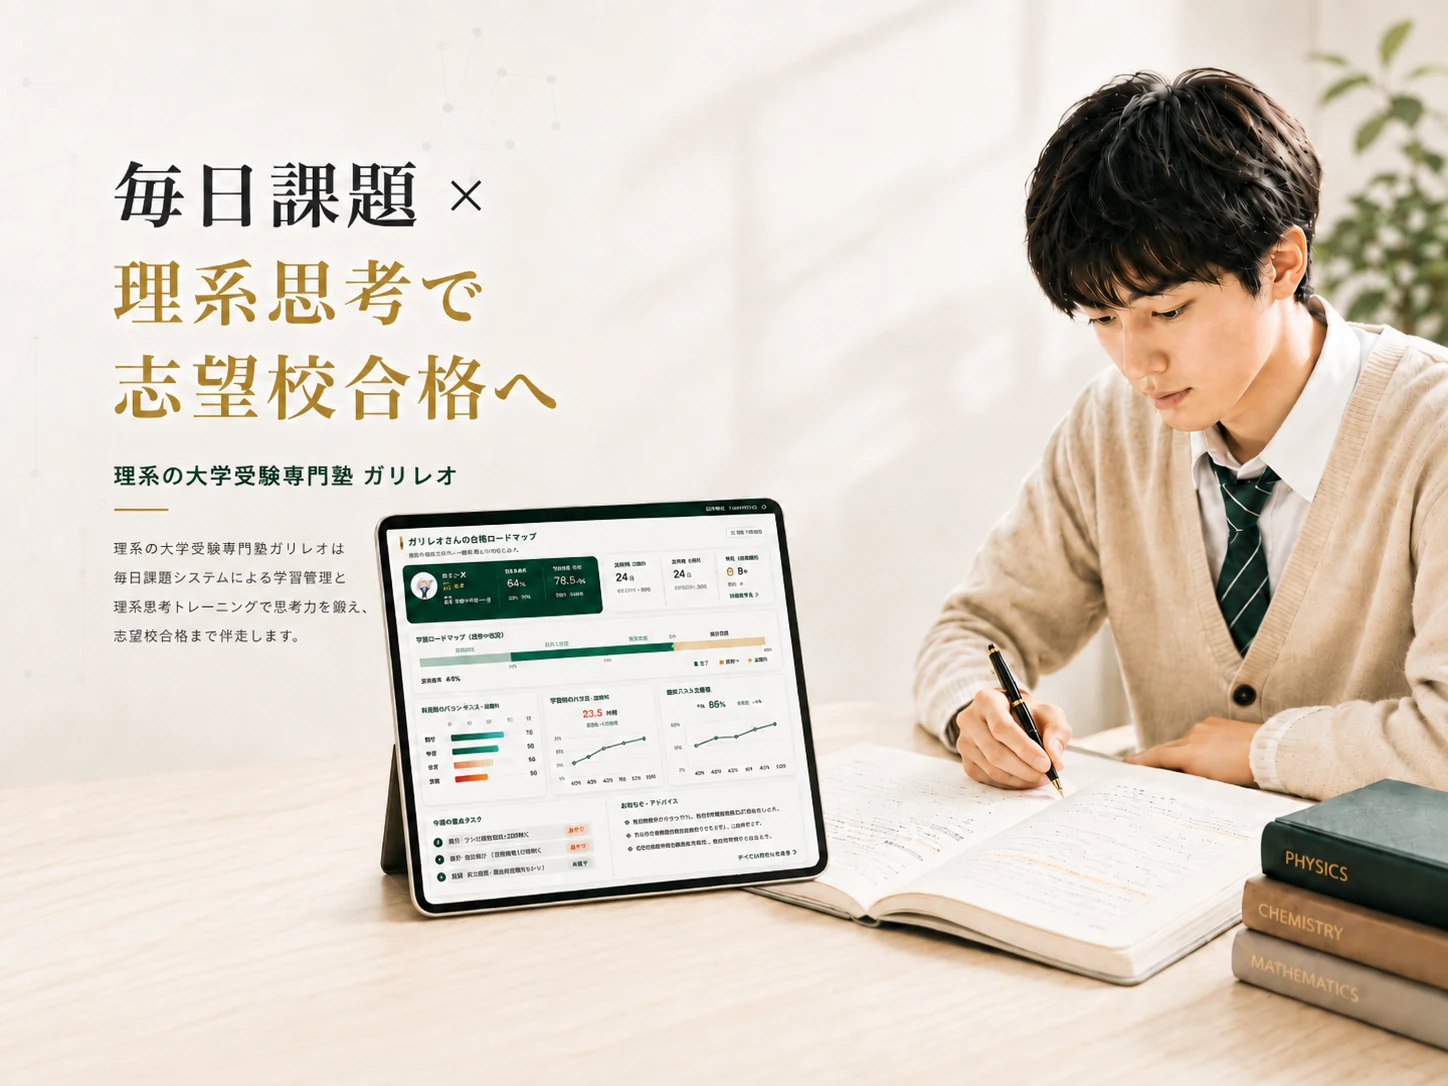
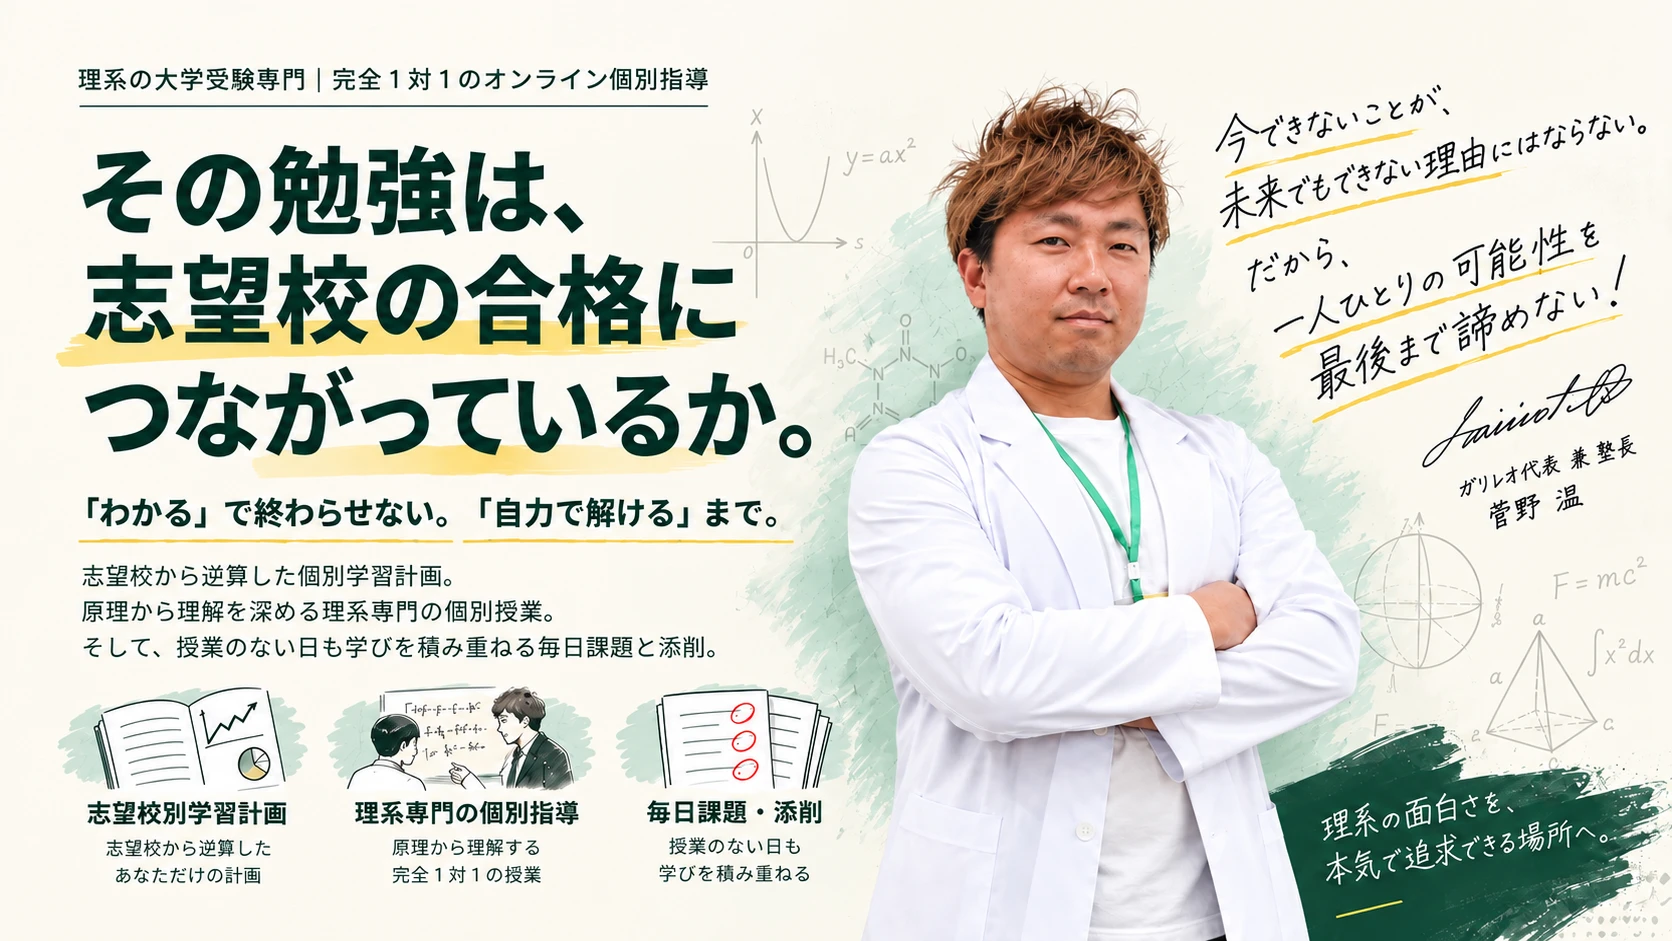
FV画像を新ビジュアル（代表写真・16:9）に差し替え
- img/hero-fv-pc.webp / .png を新画像（1672×941）に置換
- 旧SP用縦長画像（hero-fv-sp.*）を削除し、全ブレークポイントで同一画像を使用
- preload・aspect-ratio・width/height・alt を新画像に合わせて更新

Claude-Session: https://claude.ai/code/session_01FDtC5D2iuRSCx5F4jHAWHa

diff --git a/index.html b/index.html
@@ -21,8 +21,7 @@
 <meta name="twitter:site" content="@galileosciences">
 <link rel="preconnect" href="https://fonts.googleapis.com">
 <link rel="preconnect" href="https://fonts.gstatic.com" crossorigin>
-<link rel="preload" as="image" type="image/webp" href="img/hero-fv-pc.webp" media="(min-width:769px)" fetchpriority="high">
-<link rel="preload" as="image" type="image/webp" href="img/hero-fv-sp.webp" media="(max-width:768px)" fetchpriority="high">
+<link rel="preload" as="image" type="image/webp" href="img/hero-fv-pc.webp" fetchpriority="high">
 <link href="https://fonts.googleapis.com/css2?family=Noto+Sans+JP:wght@400;500;600;700;800&family=Noto+Serif+JP:wght@400;700&display=swap" rel="stylesheet">
 <style>
 /* ===== EMERALD GOLD DESIGN SYSTEM ===== */
@@ -133,8 +132,7 @@ strong{font-weight:700}
 .hero-actions{display:flex;gap:14px;flex-wrap:wrap;justify-content:center}
 .hero-visual{display:flex;flex-direction:column;align-items:center;gap:28px;width:100%}
 .hero-img{width:100%;max-width:1100px;border-radius:18px;overflow:hidden;box-shadow:0 18px 60px rgba(14,74,56,.22);background:var(--white)}
-.hero-img img{width:100%;height:auto;display:block;aspect-ratio:1448/1086}
-@media(max-width:768px){.hero-img img{aspect-ratio:1086/1448}}
+.hero-img img{width:100%;height:auto;display:block;aspect-ratio:1672/941}
 .hero-img-placeholder{width:100%;height:100%;background:linear-gradient(135deg,var(--primary-light),var(--primary-dark));display:flex;align-items:center;justify-content:center;color:rgba(255,255,255,.7);font-size:14px}
 
 .hero-stats{background:var(--white);border-top:1px solid var(--green-mist);border-bottom:1px solid var(--green-mist);padding:0;position:relative;z-index:1}
@@ -1428,10 +1426,8 @@ if (/^\d+$/.test(GALILEO_META_PIXEL_ID)) {
     <div class="hero-visual">
       <div class="hero-img">
         <picture>
-          <source media="(max-width: 768px)" type="image/webp" srcset="img/hero-fv-sp.webp">
-          <source media="(max-width: 768px)" srcset="img/hero-fv-sp.png">
           <source type="image/webp" srcset="img/hero-fv-pc.webp">
-          <img src="img/hero-fv-pc.png" alt="毎日課題 × 理系思考で志望校合格へ — 理系の大学受験専門塾 ガリレオ" width="1448" height="1086" fetchpriority="high" decoding="async">
+          <img src="img/hero-fv-pc.png" alt="その勉強は、志望校の合格につながっているか。「わかる」で終わらせない。「自力で解ける」まで。— 理系の大学受験専門・完全1対1のオンライン個別指導 ガリレオ" width="1672" height="941" fetchpriority="high" decoding="async">
         </picture>
       </div>
       <div class="hero-actions">
